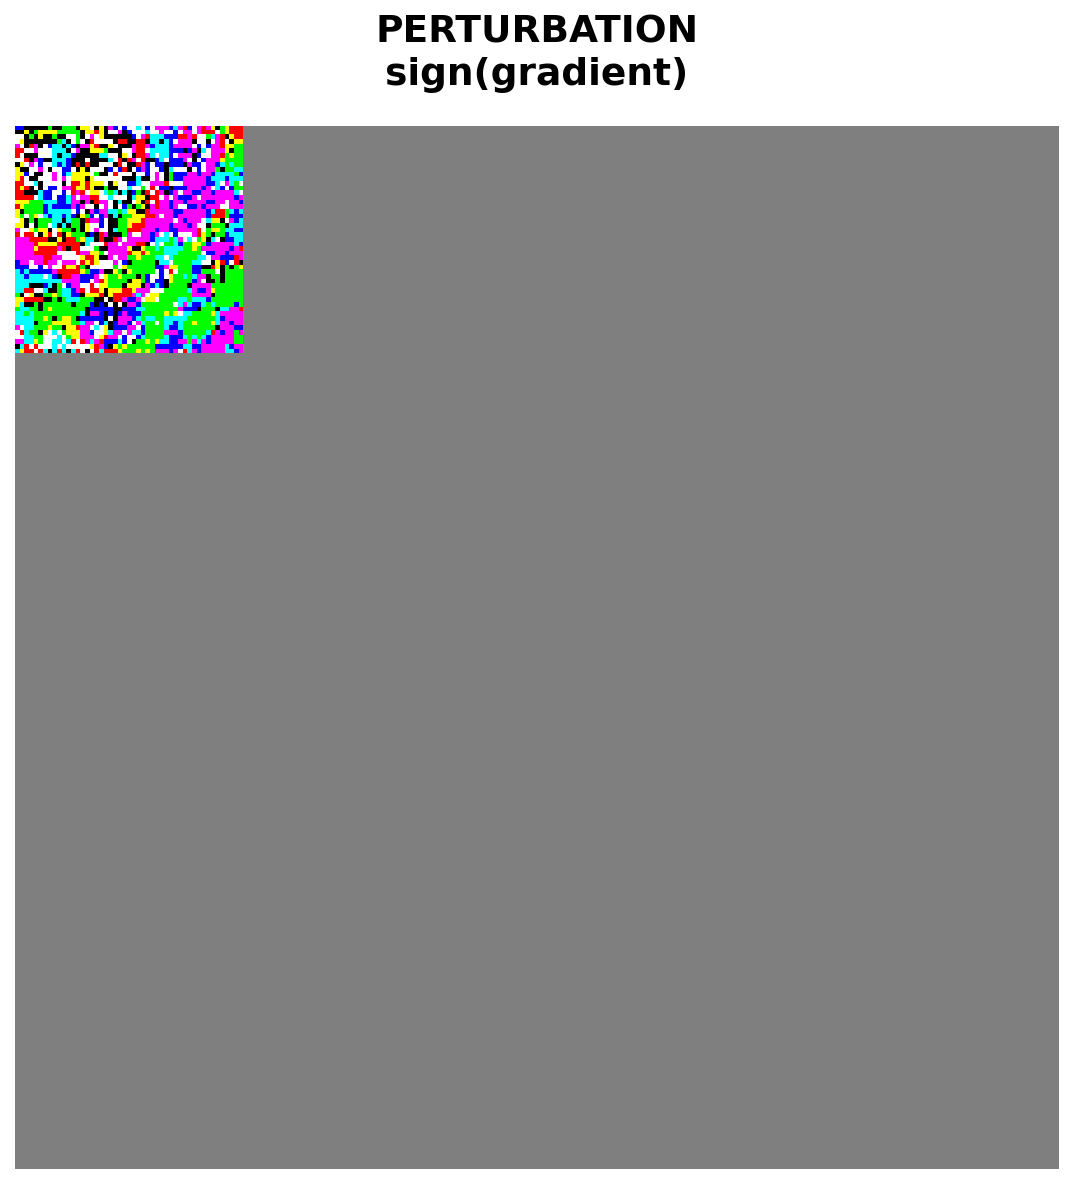
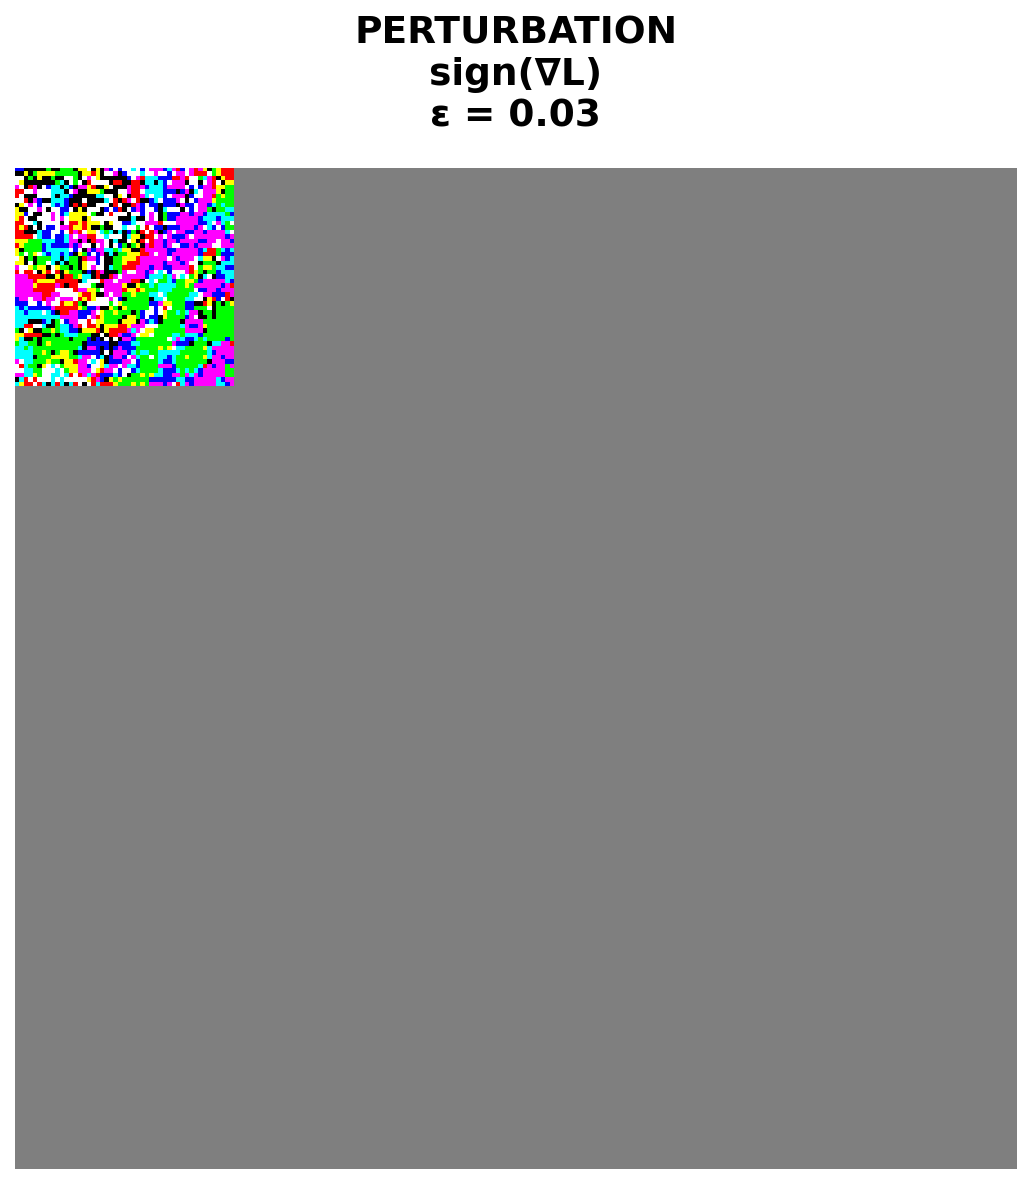
classic adversarial attack

Changed region(s): [[0.0, 0.0, 0.9932, 0.3438]]

diff --git a/GodFellow/classic_panda_adversarial.py b/GodFellow/classic_panda_adversarial.py
@@ -1,0 +1,190 @@
+import tensorflow as tf
+import matplotlib.pyplot as plt
+import numpy as np
+
+print("="*80)
+print("FGSM ATTACK - Correct Implementation")
+print("="*80)
+
+# Load model
+print("\n[1/5] Loading MobileNetV2...")
+pretrained_model = tf.keras.applications.MobileNetV2(include_top=True, weights='imagenet')
+pretrained_model.trainable = False
+decode_predictions = tf.keras.applications.mobilenet_v2.decode_predictions
+print("✓ Model loaded")
+
+# Load and preprocess image
+print("[2/5] Loading image...")
+# Use a different image - download a panda image (classic FGSM demo)
+image_url = 'https://storage.googleapis.com/download.tensorflow.org/example_images/YellowLabradorLooking_new.jpg'
+image_path = tf.keras.utils.get_file('dog.jpg', image_url)
+image_raw = tf.io.read_file(image_path)
+image_decoded = tf.image.decode_jpeg(image_raw, channels=3)
+
+def preprocess(image):
+    image = tf.cast(image, tf.float32)
+    image = tf.image.resize(image, (224, 224))
+    image = tf.keras.applications.mobilenet_v2.preprocess_input(image)
+    return image
+
+image = preprocess(image_decoded)
+image = tf.expand_dims(image, 0)
+print("✓ Image preprocessed")
+
+# Get initial prediction
+print("[3/5] Getting initial prediction...")
+image_probs = pretrained_model.predict(image, verbose=0)
+initial_pred = decode_predictions(image_probs, top=1)[0][0]
+true_class = int(np.argmax(image_probs))
+
+print(f"✓ Prediction: {initial_pred[1]} ({initial_pred[2]*100:.1f}%)")
+print(f"  True class index: {true_class}")
+print(f"  True class prob: {image_probs[0, true_class]:.4f}")
+
+# CORRECT FGSM: Compute gradient of cross-entropy loss
+print("[4/5] Computing FGSM perturbation...")
+image_variable = tf.Variable(image)
+
+with tf.GradientTape() as tape:
+    tape.watch(image_variable)
+    preds = pretrained_model(image_variable, training=False)  # probabilities
+    # Cross-entropy loss (higher loss = more wrong)
+    loss = tf.keras.losses.sparse_categorical_crossentropy(
+        y_true=tf.constant([true_class]),  # Convert to tensor
+        y_pred=preds, 
+        from_logits=False  # preds are probabilities, not logits
+    )
+    loss = tf.reduce_mean(loss)  # scalar
+
+grad = tape.gradient(loss, image_variable)
+perturbation = tf.sign(grad)
+
+# Debug info
+print(f"  Loss value: {loss.numpy():.4f}")
+print(f"  Gradient L-inf norm: {tf.reduce_max(tf.abs(grad)).numpy():.6f}")
+print(f"  Non-zero perturbations: {np.sum(perturbation.numpy() != 0):,}")
+
+# Create adversarial example
+print("[5/5] Creating adversarial image...")
+eps = 0.01  # Start smaller for easier image
+
+# FGSM formula: x_adv = x + eps * sign(∇_x Loss)
+adv_x = image_variable + eps * perturbation
+adv_x = tf.clip_by_value(adv_x, -1.0, 1.0)
+
+# Evaluate attack
+adv_probs = pretrained_model.predict(adv_x, verbose=0)
+adv_pred = decode_predictions(adv_probs, top=1)[0][0]
+adv_class = int(np.argmax(adv_probs))
+
+success = adv_class != true_class
+print(f"\n{'='*80}")
+print(f"RESULT:")
+print(f"{'='*80}")
+print(f"Original: {initial_pred[1]:20s} ({initial_pred[2]*100:.1f}%)")
+print(f"Adversarial: {adv_pred[1]:20s} ({adv_pred[2]*100:.1f}%)")
+print(f"\nTrue class confidence change:")
+print(f"  Before: {image_probs[0, true_class]*100:.2f}%")
+print(f"  After:  {adv_probs[0, true_class]*100:.2f}%")
+print(f"  Drop:   {(image_probs[0, true_class] - adv_probs[0, true_class])*100:.2f}%")
+print(f"\nAttack {'✓ SUCCESSFUL' if success else '✗ FAILED'}")
+
+# Show mathematical example
+print(f"\n{'='*80}")
+print("MATHEMATICAL EXAMPLE (5×5 patch):")
+print(f"{'='*80}")
+
+patch_orig = image_variable[0, :5, :5, 0].numpy()
+patch_grad = grad[0, :5, :5, 0].numpy()
+patch_sign = perturbation[0, :5, :5, 0].numpy()
+patch_adv = adv_x[0, :5, :5, 0].numpy()
+
+print(f"\n1. Original pixels:")
+print(patch_orig)
+
+print(f"\n2. Gradient of cross-entropy loss:")
+print(patch_grad)
+
+print(f"\n3. Sign of gradient:")
+print(patch_sign.astype(int))
+
+print(f"\n4. FGSM formula: x_adv = x + ε × sign(∇L)")
+print(f"   where ε = {eps}")
+print(f"\n   Adversarial pixels:")
+print(patch_adv)
+
+print(f"\n5. Difference (perturbation added):")
+print(patch_adv - patch_orig)
+
+print(f"\n{'='*80}")
+print("KEY INSIGHT:")
+print(f"{'='*80}")
+print("• Cross-entropy loss measures how WRONG the prediction is")
+print("• Gradient ∇L shows direction that INCREASES loss")
+print("• Adding ε × sign(∇L) makes model MORE WRONG")
+print("• Model becomes less confident in correct class!")
+print(f"{'='*80}")
+
+# Create visualizations
+print("\nCreating images...")
+
+# IMAGE 1: Original
+fig = plt.figure(figsize=(8, 8))
+original_display = (image_variable[0].numpy() - image_variable[0].numpy().min()) / \
+                   (image_variable[0].numpy().max() - image_variable[0].numpy().min())
+plt.imshow(original_display)
+plt.title(f'ORIGINAL\n{initial_pred[1]}\n{initial_pred[2]*100:.1f}%',
+          fontsize=18, fontweight='bold', pad=20)
+plt.axis('off')
+plt.tight_layout()
+plt.savefig('1_original.png', dpi=150, bbox_inches='tight')
+plt.close()
+
+# IMAGE 2: Perturbation
+fig = plt.figure(figsize=(8, 8))
+pert_vis = perturbation[0].numpy() * 0.5 + 0.5
+plt.imshow(pert_vis)
+plt.title(f'PERTURBATION\nsign(∇L)\nε = {eps}',
+          fontsize=18, fontweight='bold', pad=20)
+plt.axis('off')
+plt.tight_layout()
+plt.savefig('2_perturbation.png', dpi=150, bbox_inches='tight')
+plt.close()
+
+# IMAGE 3: Adversarial
+fig = plt.figure(figsize=(8, 8))
+adv_display = (adv_x[0].numpy() - adv_x[0].numpy().min()) / \
+              (adv_x[0].numpy().max() - adv_x[0].numpy().min())
+plt.imshow(adv_display)
+color = 'green' if success else 'orange'
+plt.title(f'ADVERSARIAL (ε={eps})\n{adv_pred[1]}\n{adv_pred[2]*100:.1f}%',
+          fontsize=18, fontweight='bold', pad=20, color=color)
+plt.axis('off')
+plt.tight_layout()
+plt.savefig('3_adversarial.png', dpi=150, bbox_inches='tight')
+plt.close()
+
+# IMAGE 4: Comparison
+fig, axes = plt.subplots(1, 2, figsize=(16, 8))
+axes[0].imshow(original_display)
+axes[0].set_title(f'BEFORE\n{initial_pred[1]}\n{initial_pred[2]*100:.1f}%',
+                  fontsize=16, fontweight='bold', pad=20)
+axes[0].axis('off')
+axes[1].imshow(adv_display)
+axes[1].set_title(f'AFTER\n{adv_pred[1]}\n{adv_pred[2]*100:.1f}%',
+                  fontsize=16, fontweight='bold', pad=20, color=color)
+axes[1].axis('off')
+plt.suptitle(f'FGSM Attack (ε={eps})', fontsize=20, fontweight='bold', y=0.98)
+plt.tight_layout()
+plt.savefig('4_comparison.png', dpi=150, bbox_inches='tight')
+plt.close()
+
+print("✓ Saved: 1_original.png, 2_perturbation.png, 3_adversarial.png, 4_comparison.png")
+
+# If attack didn't fully succeed but confidence dropped
+if not success and image_probs[0, true_class] > adv_probs[0, true_class]:
+    print(f"\nNote: While top-1 class didn't change, confidence dropped by")
+    print(f"      {(image_probs[0, true_class] - adv_probs[0, true_class])*100:.2f}%!")
+    print(f"      Try larger epsilon (e.g., 0.05-0.1) for successful misclassification.")
+
+print("\nDone!")
